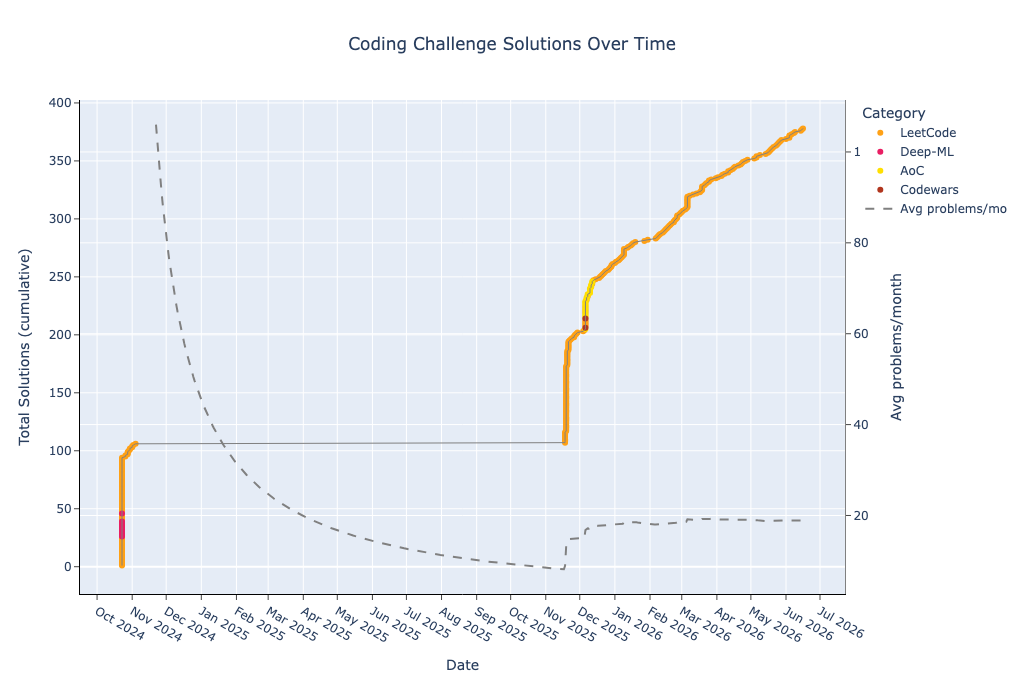
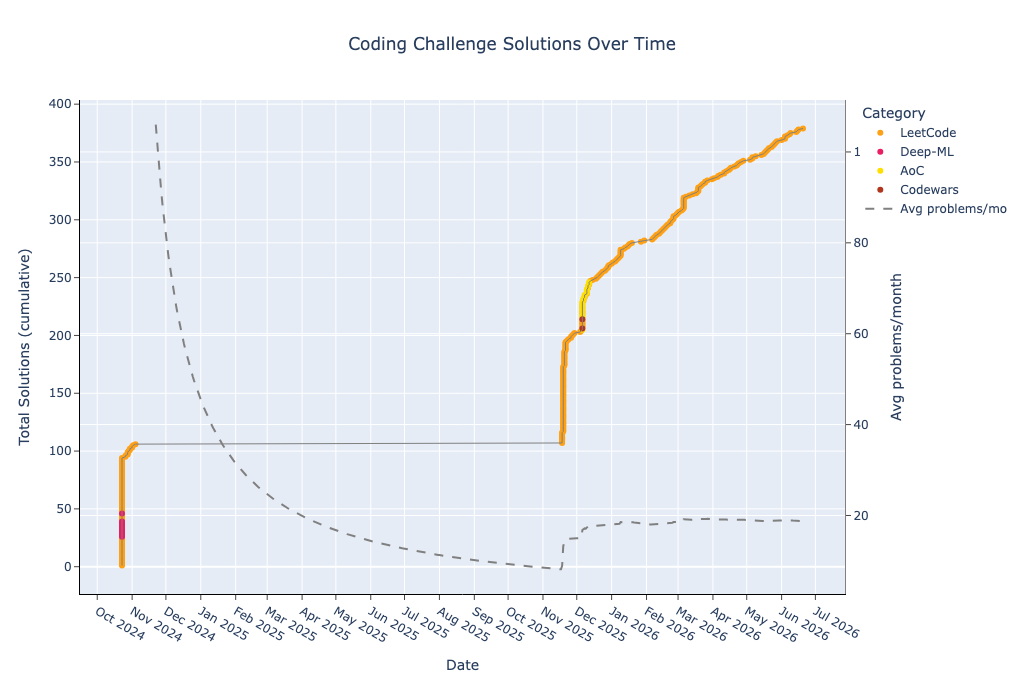
Regenerate README with LeetCode 1344

diff --git a/README.md b/README.md
@@ -36,7 +36,7 @@ This repository contains a collection of coding problems solved on various platf
 | deep-ml-easy | 9 | 72 | 8 | 10 | 0 | 2 | 13 | 0 | 0 | 0 | 12 | 3 | 0 | 0 | 0 | 0 | 0 | 0 |
 | deep-ml-medium | 5 | 69 | 13 | 5 | 0 | 1 | 7 | 0 | 0 | 0 | 8 | 2 | 0 | 0 | 0 | 0 | 0 | 0 |
 | leetcode-easy | 121 | 1979 | 16 | 163 | 6 | 165 | 158 | 42 | 6 | 14 | 198 | 4 | 4 | 14 | 1 | 0 | 12 | 0 |
-| leetcode-medium | 183 | 4746 | 25 | 323 | 5 | 484 | 354 | 108 | 21 | 39 | 398 | 6 | 37 | 57 | 11 | 26 | 23 | 7 |
+| leetcode-medium | 184 | 4764 | 25 | 326 | 5 | 484 | 354 | 108 | 21 | 39 | 401 | 6 | 37 | 57 | 11 | 26 | 23 | 7 |
 | leetcode-hard | 34 | 1061 | 31 | 63 | 4 | 97 | 84 | 21 | 11 | 15 | 79 | 3 | 7 | 14 | 8 | 3 | 9 | 9 |
 
 ## Recent Changes
@@ -47,6 +47,7 @@ Recently solved and added problems.
 
 | Date | Type | Challenge | Solution Code | Problem Link |
 | --- | --- | --- | --- | --- |
+| 2026-06-20 | LeetCode Medium | Angle Between Hands of a Clock | [python](leetcode/medium/1344.%20Angle%20Between%20Hands%20of%20a%20Clock.py) | [leetcode.com](https://leetcode.com/problems/angle-between-hands-of-a-clock/) |
 | 2026-06-16 | LeetCode Medium | Process String with Special Operations I | [python](leetcode/medium/3612.%20Process%20String%20with%20Special%20Operations%20I.py) | [leetcode.com](https://leetcode.com/problems/process-string-with-special-operations-i/) |
 | 2026-06-15 | LeetCode Medium | Delete the Middle Node of a Linked List | [python](leetcode/medium/2095.%20Delete%20the%20Middle%20Node%20of%20a%20Linked%20List.py) | [leetcode.com](https://leetcode.com/problems/delete-the-middle-node-of-a-linked-list/) |
 | 2026-06-14 | LeetCode Easy | Weighted Word Mapping | [python](leetcode/easy/3838.%20Weighted%20Word%20Mapping.py) | [leetcode.com](https://leetcode.com/problems/weighted-word-mapping/) |
@@ -56,7 +57,6 @@ Recently solved and added problems.
 | 2026-06-07 | LeetCode Medium | Create Binary Tree From Descriptions | [python](leetcode/medium/2196.%20Create%20Binary%20Tree%20From%20Descriptions.py) | [leetcode.com](https://leetcode.com/problems/create-binary-tree-from-descriptions/) |
 | 2026-06-06 | LeetCode Easy | Left and Right Sum Differences | [python](leetcode/easy/2574.%20Left%20and%20Right%20Sum%20Differences.py) | [leetcode.com](https://leetcode.com/problems/left-and-right-sum-differences/) |
 | 2026-06-04 | LeetCode Medium | Total Waviness of Numbers in Range I | [python](leetcode/medium/3751.%20Total%20Waviness%20of%20Numbers%20in%20Range%20I.py) | [leetcode.com](https://leetcode.com/problems/total-waviness-of-numbers-in-range-i/) |
-| 2026-06-04 | LeetCode Medium | Earliest Finish Time for Land and Water Rides II | [python](leetcode/medium/3635.%20Earliest%20Finish%20Time%20for%20Land%20and%20Water%20Rides%20II.py) | [leetcode.com](https://leetcode.com/problems/earliest-finish-time-for-land-and-water-rides-ii/) |
 # Advent of Code
 ### 2025
 | Day | Challenge | Time Complexity | Space Complexity | Solution Code | Problem Link |
@@ -355,6 +355,7 @@ Recently solved and added problems.
 | 1292 | Maximum Side Length of a Square with Sum Less than or Equal to Threshold | O(n) | O(1) | [python](leetcode/medium/1292.%20Maximum%20Side%20Length%20of%20a%20Square%20with%20Sum%20Less%20than%20or%20Equal%20to%20Threshold.py) | [leetcode.com](https://leetcode.com/problems/maximum-side-length-of-a-square-with-sum-less-than-or-equal-to-threshold) |
 | 1306 | Jump Game III | O(n) | O(n) | [python](leetcode/medium/1306.%20Jump%20Game%20III.py) | [leetcode.com](https://leetcode.com/problems/jump-game-iii/) |
 | 1339 | Maximum Product of Splitted Binary Tree | O(n) | O(1) | [python](leetcode/medium/1339.%20Maximum%20Product%20of%20Splitted%20Binary%20Tree.py) | [leetcode.com](https://leetcode.com/problems/maximum-product-of-splitted-binary-tree/) |
+| 1344 | Angle Between Hands of a Clock | O(1) | O(1) | [python](leetcode/medium/1344.%20Angle%20Between%20Hands%20of%20a%20Clock.py) | [leetcode.com](https://leetcode.com/problems/angle-between-hands-of-a-clock/) |
 | 1382 | Balance a Binary Search Tree | O(n) | O(1) | [python](leetcode/medium/1382.%20Balance%20a%20Binary%20Search%20Tree.py) | [leetcode.com](https://leetcode.com/problems/balance-a-binary-search-tree/) |
 | 1390 | Four Divisors | O(n) | O(1) | [python](leetcode/medium/1390.%20Four%20Divisors.py) | [leetcode.com](https://leetcode.com/problems/four-divisors) |
 | 1391 | Check if There is a Valid Path in a Grid | O(n*m) | O(n*m) | [python](leetcode/medium/1391.%20Check%20if%20There%20is%20a%20Valid%20Path%20in%20a%20Grid.py) | [leetcode.com](https://leetcode.com/problems/check-if-there-is-a-valid-path-in-a-grid/) |

diff --git a/CHANGES.md b/CHANGES.md
@@ -6,6 +6,7 @@ Recently solved and added problems.
 
 | Date | Type | Challenge | Solution Code | Problem Link |
 | --- | --- | --- | --- | --- |
+| 2026-06-20 | LeetCode Medium | Angle Between Hands of a Clock | [python](leetcode/medium/1344.%20Angle%20Between%20Hands%20of%20a%20Clock.py) | [leetcode.com](https://leetcode.com/problems/angle-between-hands-of-a-clock/) |
 | 2026-06-16 | LeetCode Medium | Process String with Special Operations I | [python](leetcode/medium/3612.%20Process%20String%20with%20Special%20Operations%20I.py) | [leetcode.com](https://leetcode.com/problems/process-string-with-special-operations-i/) |
 | 2026-06-15 | LeetCode Medium | Delete the Middle Node of a Linked List | [python](leetcode/medium/2095.%20Delete%20the%20Middle%20Node%20of%20a%20Linked%20List.py) | [leetcode.com](https://leetcode.com/problems/delete-the-middle-node-of-a-linked-list/) |
 | 2026-06-14 | LeetCode Easy | Weighted Word Mapping | [python](leetcode/easy/3838.%20Weighted%20Word%20Mapping.py) | [leetcode.com](https://leetcode.com/problems/weighted-word-mapping/) |
@@ -15,4 +16,3 @@ Recently solved and added problems.
 | 2026-06-07 | LeetCode Medium | Create Binary Tree From Descriptions | [python](leetcode/medium/2196.%20Create%20Binary%20Tree%20From%20Descriptions.py) | [leetcode.com](https://leetcode.com/problems/create-binary-tree-from-descriptions/) |
 | 2026-06-06 | LeetCode Easy | Left and Right Sum Differences | [python](leetcode/easy/2574.%20Left%20and%20Right%20Sum%20Differences.py) | [leetcode.com](https://leetcode.com/problems/left-and-right-sum-differences/) |
 | 2026-06-04 | LeetCode Medium | Total Waviness of Numbers in Range I | [python](leetcode/medium/3751.%20Total%20Waviness%20of%20Numbers%20in%20Range%20I.py) | [leetcode.com](https://leetcode.com/problems/total-waviness-of-numbers-in-range-i/) |
-| 2026-06-04 | LeetCode Medium | Earliest Finish Time for Land and Water Rides II | [python](leetcode/medium/3635.%20Earliest%20Finish%20Time%20for%20Land%20and%20Water%20Rides%20II.py) | [leetcode.com](https://leetcode.com/problems/earliest-finish-time-for-land-and-water-rides-ii/) |
